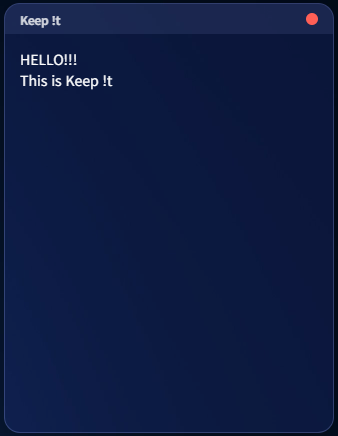
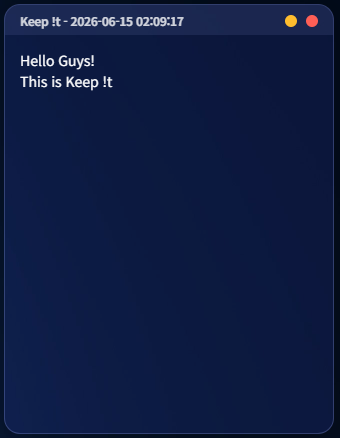
modulize and additional functions

diff --git a/src/main/modules/open-save-dialog.js b/src/main/modules/open-save-dialog.js
@@ -1,0 +1,24 @@
+const { dialog } = require("electron");
+const fs = require("fs");
+
+async function openSaveDialog(win, options) {
+    const result = await dialog.showSaveDialog({
+        title: options.title,
+        defaultPath: options.defaultPath
+    });
+
+    if (result.canceled) return null;
+
+    await fs.writeFileSync(result.filePath, options.content);
+
+    await dialog.showMessageBox(win, {
+        title: "Keep !t",
+        message: "Note Saved."
+    });
+
+    return result.filePath;
+}
+
+module.exports = {
+    openSaveDialog
+}

diff --git a/src/web/script.js b/src/web/script.js
@@ -1,0 +1,24 @@
+// const { remote } = require('electron');
+const { getCurrentDate } = require('./modules/date');
+const { saveFile } = require('./modules/save');
+
+const today = getCurrentDate();
+document.getElementById('title').textContent = `Keep !t - ${today}`;
+
+setInterval(() => {
+    const today = getCurrentDate();
+    document.getElementById('title').textContent = `Keep !t - ${today}`;
+}, 1000);
+
+// document.getElementById('dateDisplay').textContent = `Today's date: ${getCurrentDate()}`;
+
+document.getElementById('closeBtn').addEventListener('click', () => {
+    window.close();
+});
+
+document.getElementById('saveBtn').addEventListener('click', async () => {
+    const content = document.querySelector('.content-area').value;
+    const filename = `keepit_${getCurrentDate().replace(/[: ]/g, '_')}`;
+
+    saveFile(filename, content);
+});

diff --git a/src/web/modules/save.js b/src/web/modules/save.js
@@ -1,0 +1,19 @@
+const { ipcRenderer } = require('electron');
+
+async function saveFile(title, content) {
+    const result = await ipcRenderer.invoke('open-save-dialog', {
+        title: title,
+        defaultPath: `${title}.txt`,
+        content: content
+    });
+
+    console.log(result);
+
+    if (!result.canceled) {
+        console.log(result.filePath);
+    }
+}
+
+module.exports = {
+    saveFile
+}

diff --git a/src/web/modules/date.js b/src/web/modules/date.js
@@ -1,0 +1,9 @@
+const moment = require('moment');
+
+function getCurrentDate() {
+    return moment().format('YYYY-MM-DD HH:mm:ss');
+}
+
+module.exports = {
+    getCurrentDate
+};